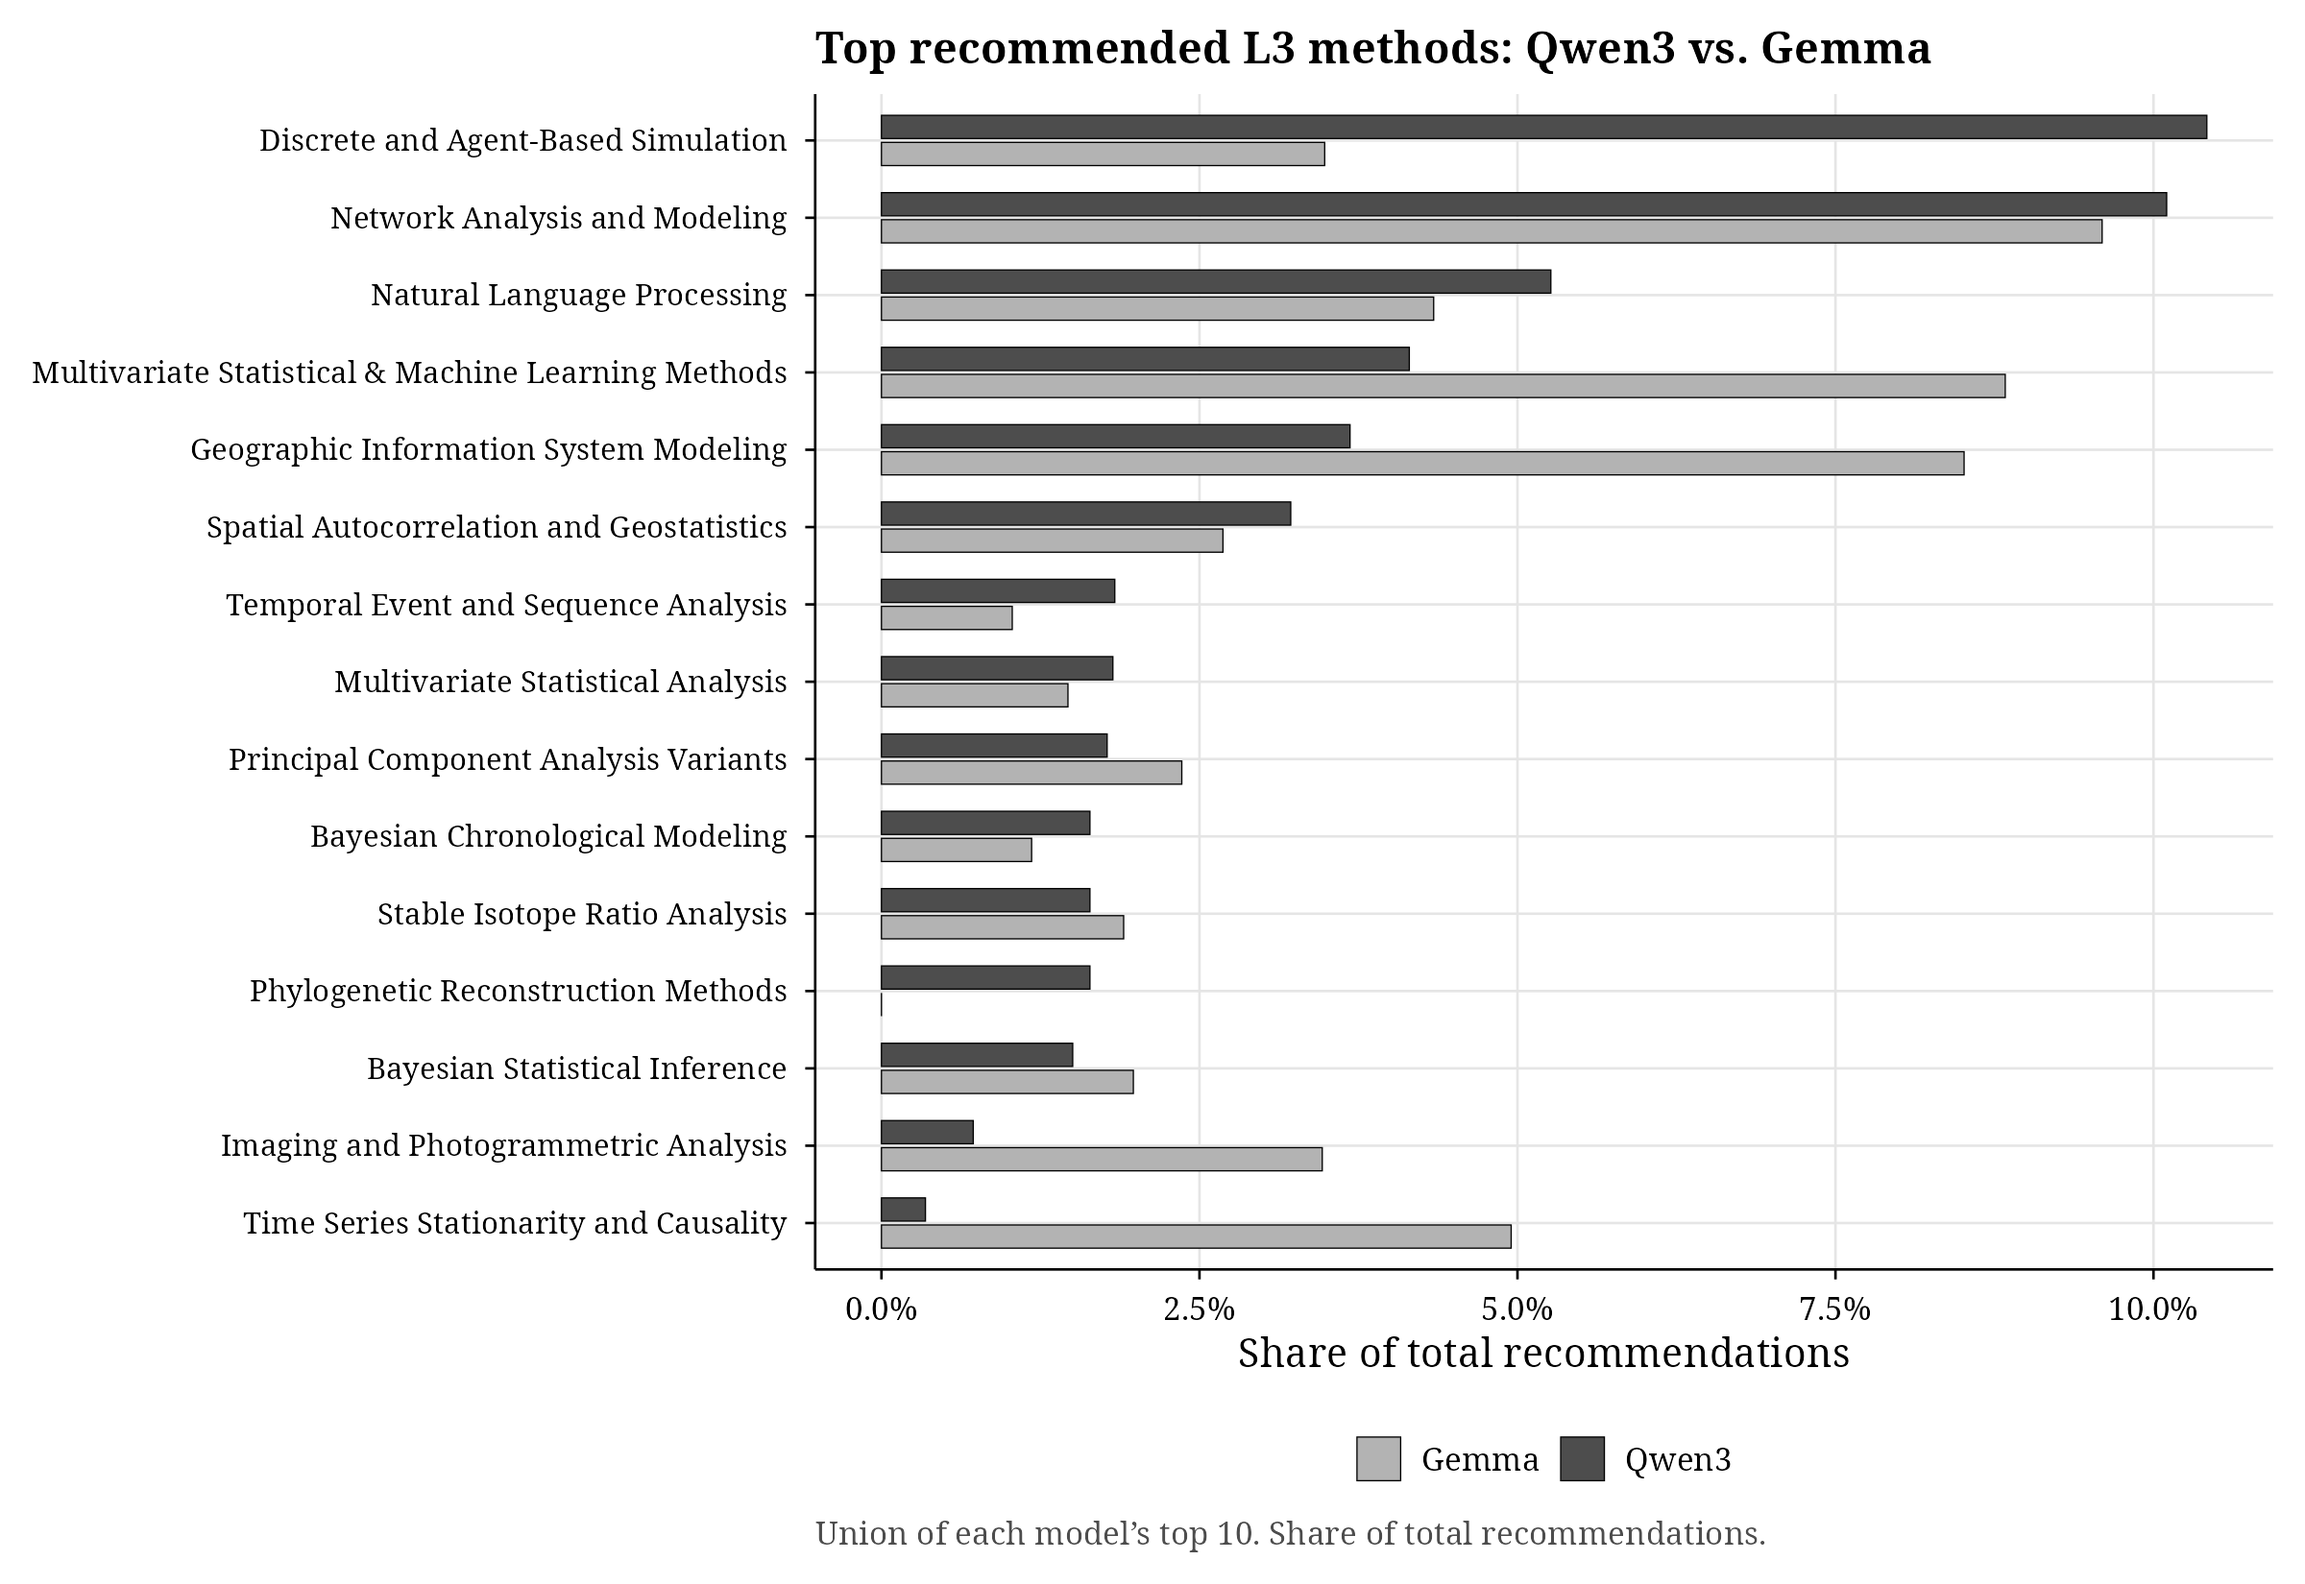
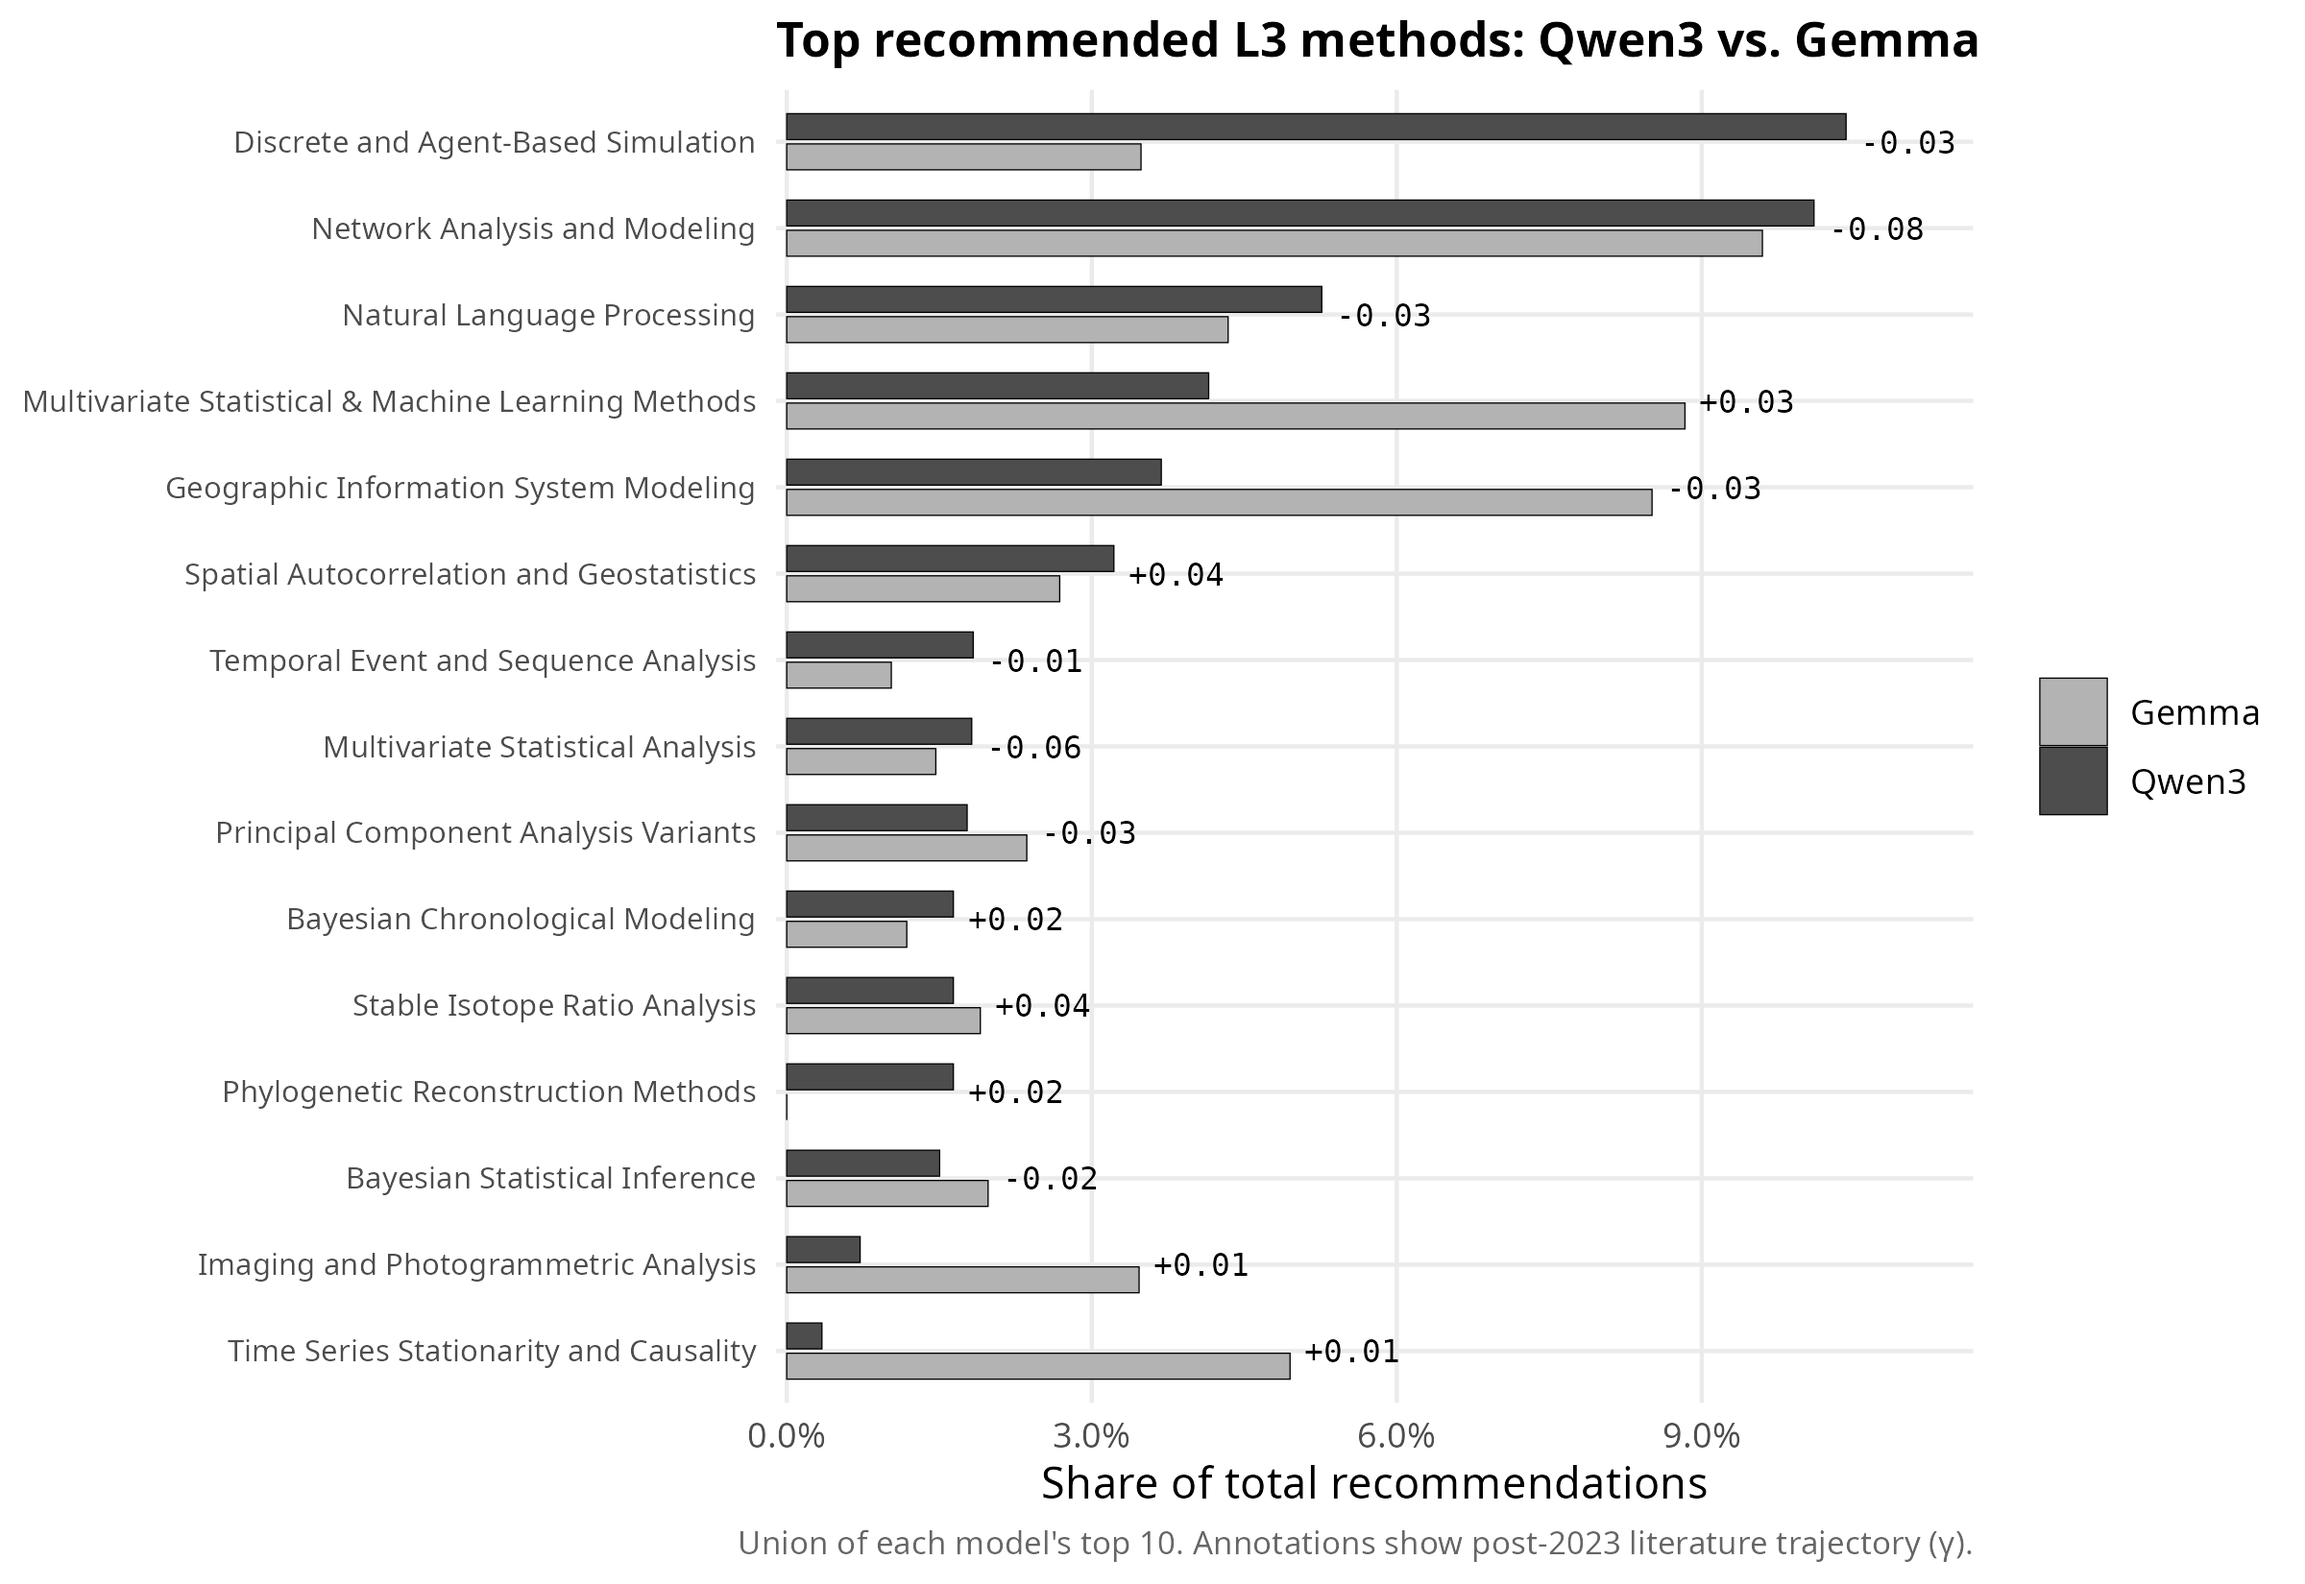
Updated figures

Changed region(s): [[0.0, 0.0, 0.9688, 0.9891], [0.875, 0.4018, 0.9688, 0.5255], [0.9062, 0.8036, 0.9375, 0.8345]]

diff --git a/docs/main_text_figures.md b/docs/main_text_figures.md
@@ -70,15 +70,20 @@ model-specific artefact.
 **Section:** Results (cross-model comparison, 4.2)
 
 **What it shows:** Union of each model's top 10 recommended L3 methods, compared
-as share of total recommendations.
+as share of total recommendations. Each bar is annotated with the method's
+post-2023 literature trajectory (γ from the bibliometric model): positive values
+indicate methods gaining share in recent literature, negative values indicate
+methods declining relative to their pre-2023 trend.
 
 **Results:** High structural agreement between the two LLMs. Network Analysis and
-Modeling dominates both (~10% share each). The rank ordering is largely preserved
-across architectures, though Gemma allocates slightly more to GIS Modeling and
+Modeling dominates both (~10% share each) despite a declining literature
+trajectory (γ = −0.08). The rank ordering is largely preserved across
+architectures, though Gemma allocates slightly more to GIS Modeling and
 Multivariate Statistical & Machine Learning, while Qwen3 favours Discrete and
-Agent-Based Simulation more strongly. This convergence across independently
-trained models strengthens the claim that the recommendation patterns are
-structural, not model-specific artefacts.
+Agent-Based Simulation more strongly. The gamma annotations show that top LLM
+picks include both gaining and declining methods, foreshadowing the Fig. 6
+finding that LLM recommendations track training-corpus prevalence (b_pre) rather
+than post-2023 momentum (b_gamma ≈ 0).
 
 ![Fig. 4](../data/output/figures/main_text/fig4_top10_qwen_vs_gemma.png)
 
